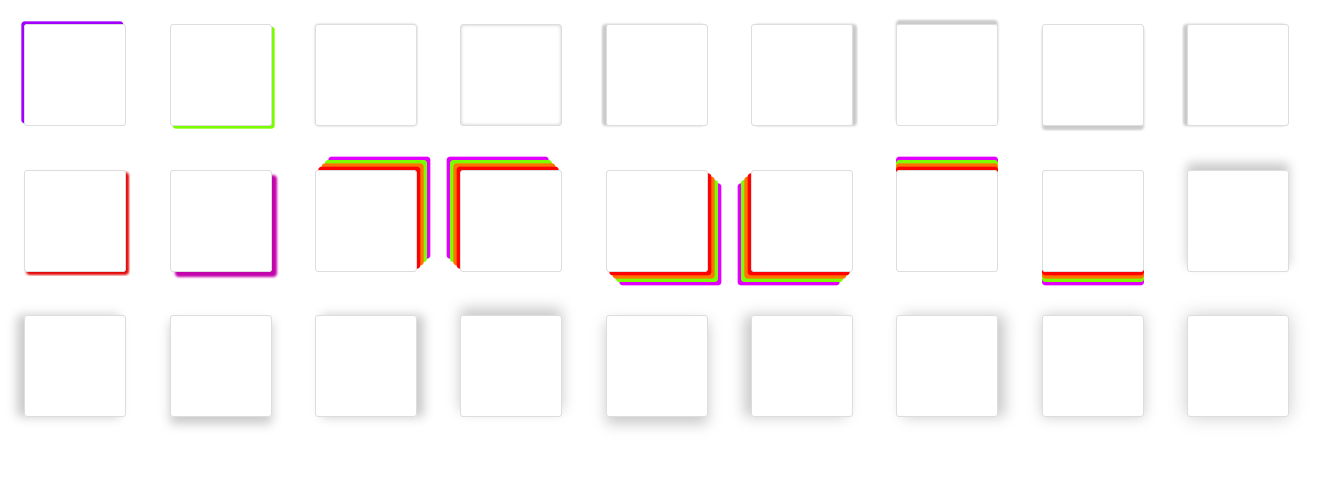
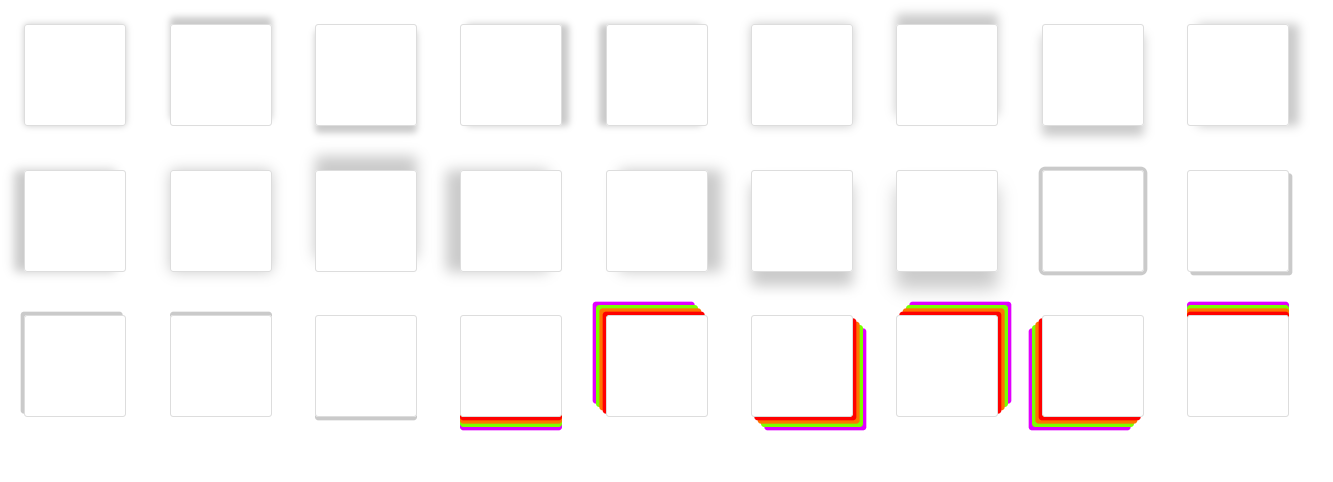
update readme

diff --git a/css/shadows.min.css b/css/shadows.min.css
@@ -17,10 +17,12 @@
 .shadow-blur-20-left{box-shadow:0 20px 20px #cacaca}
 .shadow-blur-20-botton{box-shadow:-20px 0 20px #cacaca}
 .shadow-blur-20-right{box-shadow:20px 0 20px #cacaca}
+.shadow-blur-20-center{box-shadow:0 0 20px #cacaca}
 .shadow-blur-30-top{box-shadow:0 -30px 30px #cacaca}
 .shadow-blur-30-left{box-shadow:0 30px 30px #cacaca}
 .shadow-blur-30-botton{box-shadow:-30px 0 30px #cacaca}
 .shadow-blur-30-right{box-shadow:30px 0 30px #cacaca}
+.shadow-blur-30-center{box-shadow:0 0 30px #cacaca}
 .shadow-blur-40-top{box-shadow:0 -40px 40px #cacaca}
 .shadow-blur-40-botton{box-shadow:0 40px 40px #cacaca}
 .shadow-blur-40-left{box-shadow:-40px 0 40px #cacaca}

diff --git a/css/shadows.css b/css/shadows.css
@@ -8,7 +8,7 @@
 
 /* 10 */
 .shadow-solid-10-center {
-  box-shadow: 0 0 0 10px  #cacaca;
+  box-shadow: 0 0 0 10px #cacaca;
 }
 
 .shadow-solid-10-top {
@@ -88,6 +88,10 @@
   box-shadow: 20px 0 20px #cacaca;
 }
 
+.shadow-blur-20-center {
+  box-shadow: 0 0 20px #cacaca;
+}
+
 /* 30 */
 .shadow-blur-30-top {
   box-shadow: 0 -30px 30px #cacaca;
@@ -103,6 +107,10 @@
 
 .shadow-blur-30-right {
   box-shadow: 30px 0 30px #cacaca;
+}
+
+.shadow-blur-30-center {
+  box-shadow: 0 0 30px #cacaca;
 }
 
 /* 40 */

diff --git a/readme.md b/readme.md
@@ -2,8 +2,17 @@
 
 ![header](./img/header.png)
 
-Librería `CSS` de sombras que puedes utilizar en tus proyectos.
-**Aún en desarrollo.**
+Mini librería `CSS` de sombras que puedes utilizar en tus proyectos.
+
+### Instalación
+
+Por el momento no hay una versión instalable, aún esta en desarrollo.
+
+Pero puedes clonar el repositorio.
+
+```sh
+$ git clone https://github.com/Franqsanz/css-box-shadows.git
+```
 
 ### Modo de uso
 
@@ -66,6 +75,7 @@ Ejemplo:
 | `shadow-blur-30-left`   |
 | `shadow-blur-30-botton` |
 | `shadow-blur-30-right`  |
+| `shadow-blur-30-center` |
 | `shadow-blur-40-center` |
 | `shadow-blur-40-top`    |
 | `shadow-blur-40-left`   |
@@ -104,7 +114,7 @@ Ejemplo:
 
 #### Clases efecto `Multi Colors`
 
-Estás clases contienen varias capas de sombras multi colores (Experimental).
+Estás clases contienen varias capas de sombras multi colores _(Experimental)_.
 
 Ejemplo:
 
